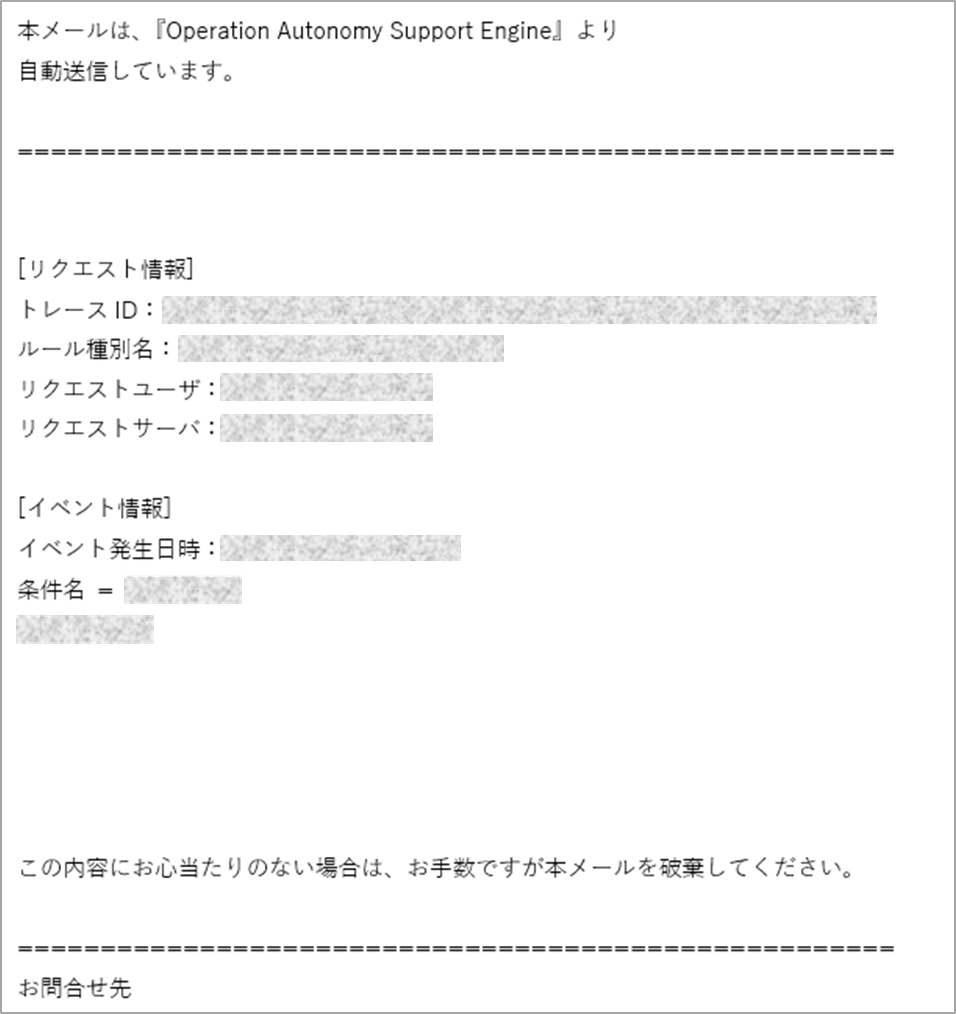
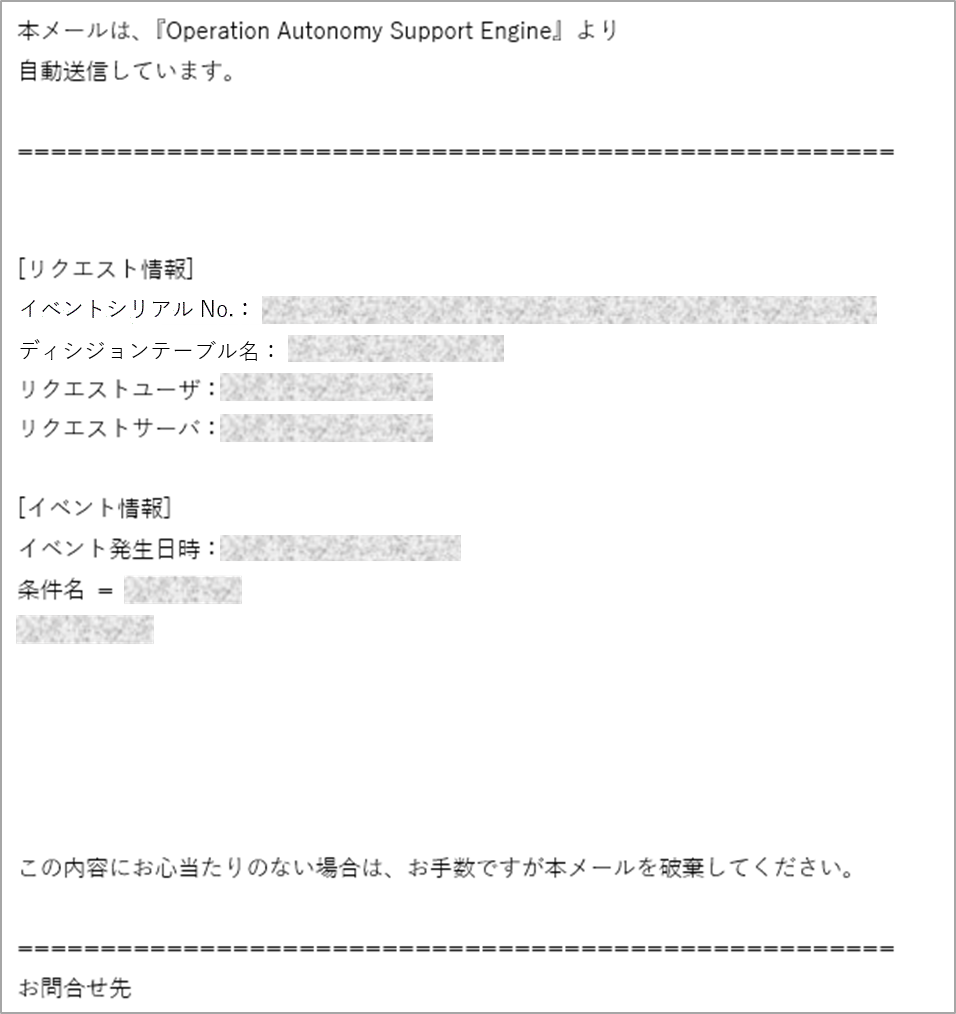
マニュアル修正(トレースIDをイベントシリアルNoに修正)

Changed region(s): [[0.0303, 0.2751, 0.3033, 0.3669]]

diff --git a/oase_documents/api/02_action_history.rst b/oase_documents/api/02_action_history.rst
@@ -40,12 +40,12 @@
    :header: No,  物理名,論理名, 属性,長さ,空白
    :widths: 5, 20, 20,15,15,10
 
-   1, traceid, トレースID,文字列,  55,不可
+   1, traceid, イベントシリアルNo.,文字列,  35,不可
 
 
 traceid
 ~~~~~~~~~~~~
-取得したいアクション履歴に紐付くトレースIDを指定します。
+取得したいアクション履歴に紐付くイベントシリアルNo.を指定します。
 
 **記述例**
 
@@ -123,7 +123,7 @@ msg
    1,Successful completion.,正常終了
    2,Successful completion. (Staging environment),正常終了（ステージング）
    3,Successful completion. (Production environment),正常終了(プロダクション)
-   4,Invalid trace ID,無効なトレースIDです
+   4,Invalid trace ID,無効なイベントシリアルNo.です
    5,Invalid data.,無効なデータです。
    6,Invalid request. Must be GET. Not POST.,無効なリクエスト。 GETである必要があります。POSTではありません。
    7,Invalid request format. Must be JSON.,無効なリクエスト形式。 JSON形式である必要があります。
@@ -133,7 +133,7 @@ msg
 
 action_history_list
 ~~~~~~~~~~~~~~~~~~~~~~~~~~~
-リクエストしたトレースIDに対するアクション履歴の情報（status、rule_type_name、rule_name、action_type_id、last_update_timestamp、last_update_user）が記述されます。
+リクエストしたイベントシリアルNo.に対するアクション履歴の情報（status、rule_type_name、rule_name、action_type_id、last_update_timestamp、last_update_user）が記述されます。
 
 
 status
@@ -165,7 +165,7 @@ status
 
 rule_type_name
 ~~~~~~~~~~~~~~~~~~~
-ディシジョンテーブル画面で設定したルール種別が表示されます。
+ディシジョンテーブル画面で設定したディシジョンテーブル名が表示されます。
 
 **記述例**
 

diff --git a/oase_documents/action/02_screen_structure.rst b/oase_documents/action/02_screen_structure.rst
@@ -866,7 +866,7 @@ mailドライバのアクション先が一覧で表示されます。
 
 
 .. note::
-   [ACTION_INFO]タグを挿入した場合、メール本文には「リクエスト情報（トレースID、ルール種別名、リクエストユーザ、リクエストサーバ）」が、実行された内容に沿って記述されます。[EVENT_INFO]タグを挿入した場合、メール本文には「イベント情報（イベント発生日時、条件名、ルール名）」が、実行された内容に沿って記述されます。
+   [ACTION_INFO]タグを挿入した場合、メール本文には「リクエスト情報（イベントシリアルNo.、ディシジョンテーブル名、リクエストユーザ、リクエストサーバ）」が、実行された内容に沿って記述されます。[EVENT_INFO]タグを挿入した場合、メール本文には「イベント情報（イベント発生日時、条件名、ルール名）」が、実行された内容に沿って記述されます。
 
 
 編集画面

diff --git a/oase_documents/api/01_events_request.rst b/oase_documents/api/01_events_request.rst
@@ -118,7 +118,7 @@ eventinfo
 --------------------------------------
 
 | リクエストを投入し内容に問題が無い場合は、「"result": true」「"msg": "Accept request."」となり、
-| 末尾に受け付けられたリクエストのトレースIDが表示されます。
+| 末尾に受け付けられたリクエストのイベントシリアルNo.が表示されます。
 | 内容に問題がある場合は「"result": false」となり、処理が受け付けられません。
 | その場合は「"msg"」に記載の内容を確認し解消することでリクエストが受け付けられるようになります。
 
@@ -129,7 +129,7 @@ eventinfo
 
    1, result, 判定
    2, msg, メッセージ
-   3, trace_id,トレースID
+   3, trace_id,イベントシリアルNo.
 
 
 result
